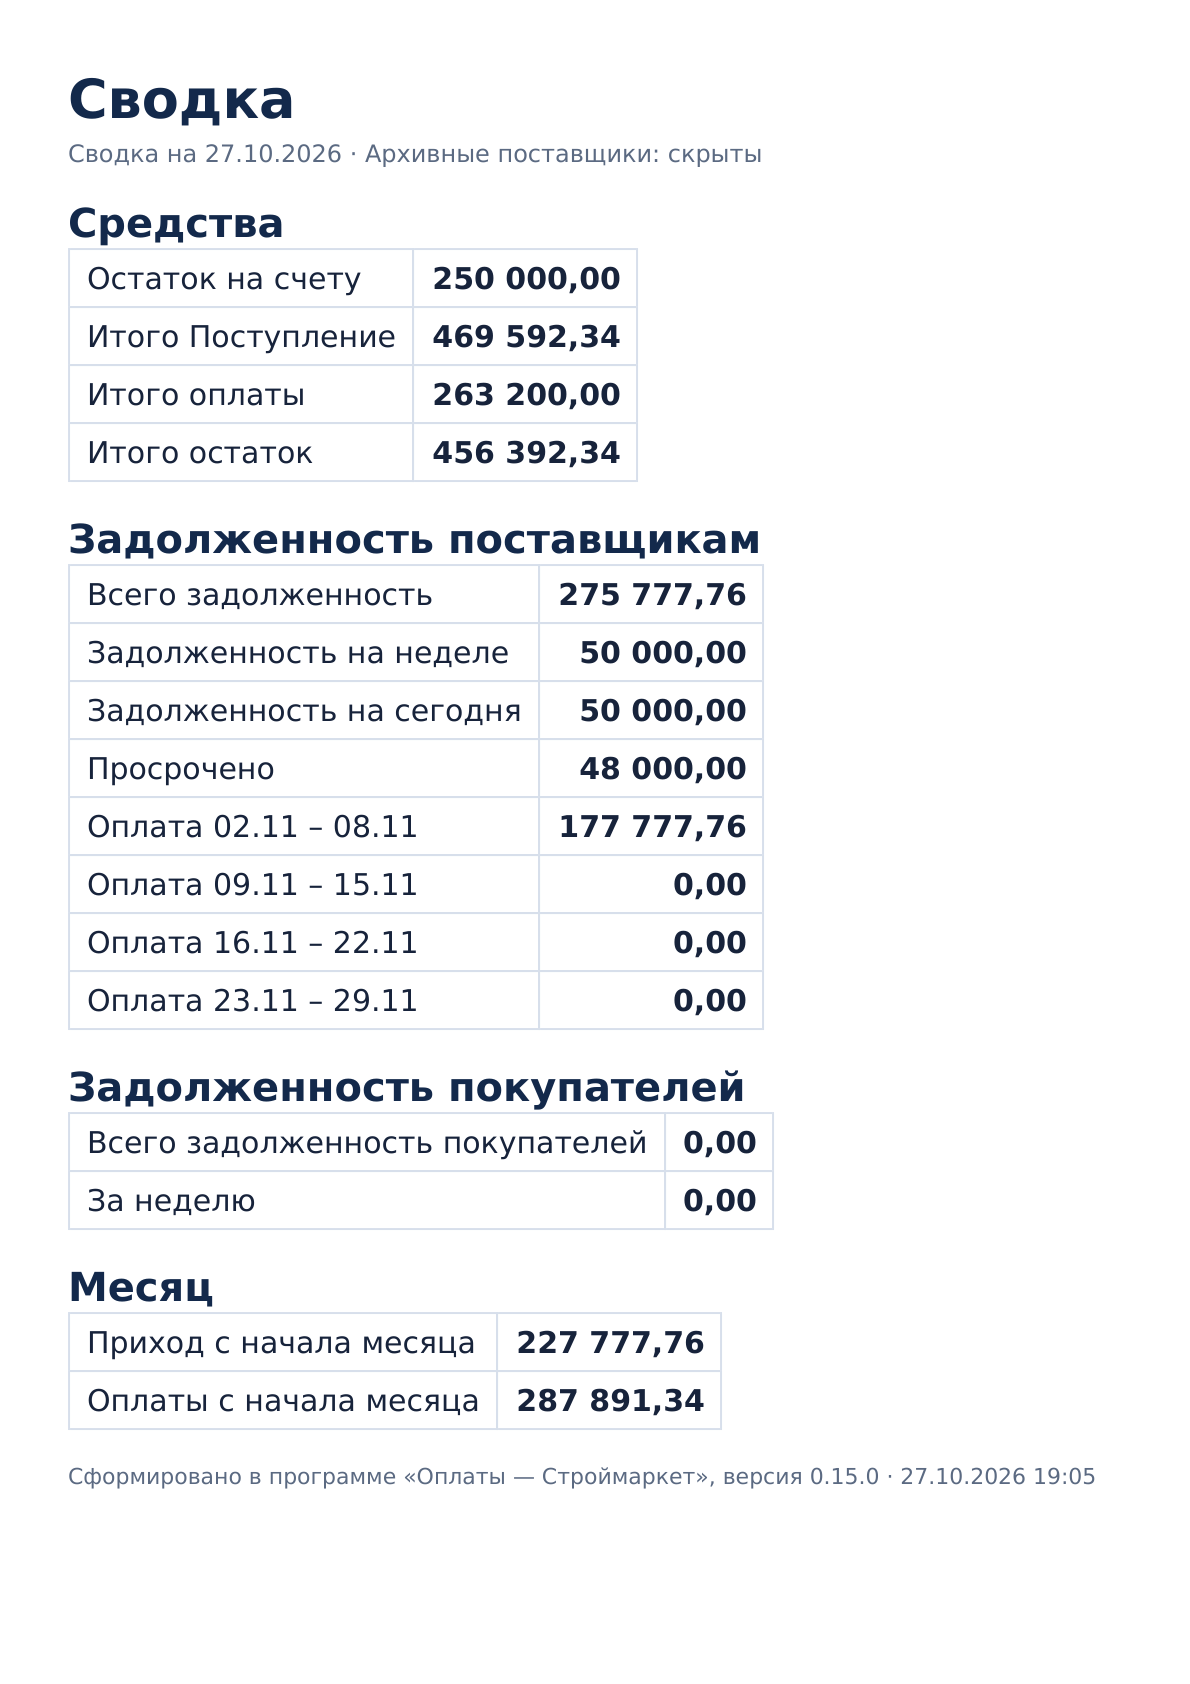
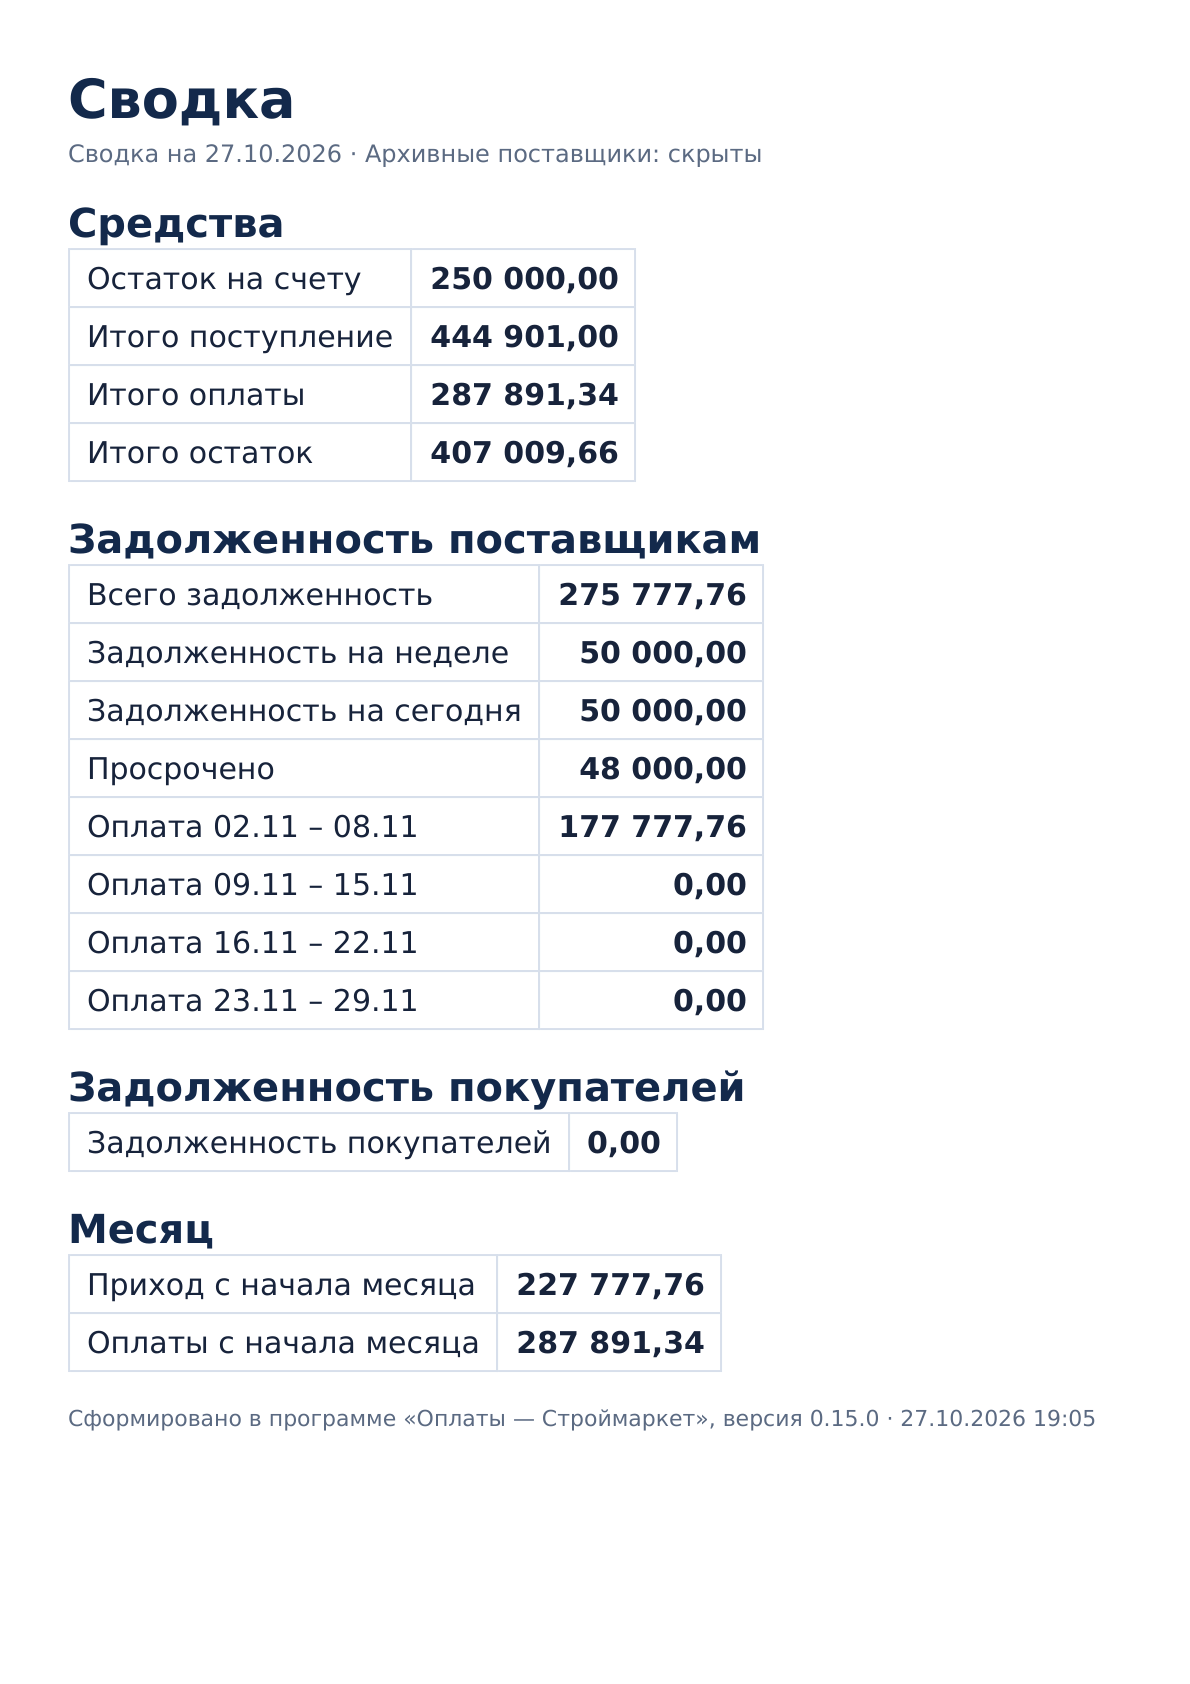
v0.15.0: закреплена таблица «Поступление», «Итого поступление» в Сводке

Changed region(s): [[0.0622, 0.6485, 0.684, 0.8955], [0.1555, 0.1544, 0.5597, 0.2779], [0.8084, 0.8337, 0.9017, 0.8955]]

diff --git a/src/oplata/views/summary_view.py b/src/oplata/views/summary_view.py
@@ -108,7 +108,7 @@ class SummaryView(QWidget):
             "СРЕДСТВА",
             [
                 ("funds", "Остаток на счету"),
-                ("income", "Итого Поступление"),
+                ("income", "Итого поступление"),
                 ("payments", "Итого оплаты"),
                 ("balance", "Итого остаток"),
             ],
@@ -135,8 +135,7 @@ class SummaryView(QWidget):
             content,
             "ЗАДОЛЖЕННОСТЬ ПОКУПАТЕЛЕЙ",
             [
-                ("cust_total", "Всего задолженность покупателей"),
-                ("cust_week", "За неделю"),
+                ("cust_total", "Задолженность покупателей"),
             ],
         )
         self._separator(content)
@@ -228,6 +227,7 @@ class SummaryView(QWidget):
             data, on_date, PLAN_WEEKS, include_archived
         )
         customers = calc.customer_debt_totals(data, on_date, include_archived)
+        _ = customers.week  # «за неделю» в блоке не показывается
         month = calc.month_totals(data, on_date)
 
         self._set_value("funds", funds.funds)
@@ -246,7 +246,6 @@ class SummaryView(QWidget):
                 f" – {week.sunday.strftime('%d.%m')}"
             )
         self._set_value("cust_total", customers.total)
-        self._set_value("cust_week", customers.week)
         self._set_value("month_income", month.income)
         self._set_value("month_payments", month.payments)
 
@@ -258,7 +257,7 @@ class SummaryView(QWidget):
                 title="Средства",
                 lines=[
                     SummaryLine("Остаток на счету", fmt_money_plain(funds.funds)),
-                    SummaryLine("Итого Поступление", fmt_money_plain(funds.income)),
+                    SummaryLine("Итого поступление", fmt_money_plain(funds.income)),
                     SummaryLine("Итого оплаты", fmt_money_plain(funds.payments)),
                     SummaryLine("Итого остаток", fmt_money_plain(funds.balance)),
                 ],
@@ -290,10 +289,9 @@ class SummaryView(QWidget):
                 title="Задолженность покупателей",
                 lines=[
                     SummaryLine(
-                        "Всего задолженность покупателей",
+                        "Задолженность покупателей",
                         fmt_money_plain(customers.total),
                     ),
-                    SummaryLine("За неделю", fmt_money_plain(customers.week)),
                 ],
             ),
             SummarySection(

diff --git a/src/oplata/views/receipts_view.py b/src/oplata/views/receipts_view.py
@@ -526,7 +526,8 @@ class MoneyBlock(QFrame):
         self.next_btn.clicked.connect(lambda: self.shift_date(1))
         top.addWidget(self.next_btn)
 
-        if on_add_row is not None or on_remove_row is not None:
+        has_row_buttons = on_add_row is not None or on_remove_row is not None
+        if has_row_buttons:
             top.addStretch(1)
         if on_add_row is not None:
             self.add_btn = arrow_button("+", "Добавить свою строку")
@@ -536,6 +537,11 @@ class MoneyBlock(QFrame):
             self.remove_btn = arrow_button("−", "Убрать выделенную строку")
             self.remove_btn.clicked.connect(self._remove_selected)
             top.addWidget(self.remove_btn)
+        if not has_row_buttons:
+            # На плашке «поступление» кнопок «+»/«−» нет, поэтому
+            # заголовок остаётся прежним: стрелки справа от «Сегодня» и
+            # растяжка до правого края (как было раньше).
+            top.addStretch(1)
         root.addLayout(top)
 
         # --- таблица: строка + сумма + нарастающие итоги ---
@@ -638,9 +644,21 @@ class MoneyBlock(QFrame):
             )
             self.table.setStyleSheet(WIDE_SCROLLBAR)
         else:
-            self.table.setMaximumHeight(
-                header_height + visible * row_height + 2
+            # Блок «Поступление» закреплён (v0.15.0): высота таблицы
+            # фиксированная по числу строк, чтобы при обновлении и
+            # прокрутке содержимое не «болталось» и не сдвигало блок
+            # «Оплата» под ним.
+            fixed_height = header_height + visible * row_height + 2
+            # Высоты строк не пересчитываются по переносу слов: иначе
+            # таблица дёргается при каждом пересчёте раскладки.
+            self.table.verticalHeader().setSectionResizeMode(
+                QHeaderView.ResizeMode.Fixed
             )
+            self.table.setSizePolicy(
+                QSizePolicy.Policy.Expanding, QSizePolicy.Policy.Fixed
+            )
+            self.table.setMinimumHeight(fixed_height)
+            self.table.setMaximumHeight(fixed_height)
             # Скроллинга в блоке «Поступление» нет (v0.14.0): строк там
             # немного, а полоса прокрутки только мешала.
             self.table.setVerticalScrollBarPolicy(

diff --git a/src/oplata/calc.py b/src/oplata/calc.py
@@ -220,32 +220,22 @@ def funds_totals(data: AppData) -> FundsTotals:
     except InvalidOperation:
         funds = ZERO
 
-    # v0.15.0: «Реализация» покупателей в ИТОГ ПОСТУПЛЕНИЕ не входит —
-    # это отгрузка, а не деньги. Деньги, поступившие от покупателя
-    # («Оплата» покупателя), наоборот, поступление.
-    supplier_ids = {s.id for s in data.suppliers}
-    customer_ids = {c.id for c in data.customers}
-
+    # v0.15.0: по просьбе пользователя «Реализация» покупателей в
+    # ИТОГ ПОСТУПЛЕНИЕ не входит. Больше в расчёте ничего не менялось.
     income = ZERO
     for receipt in data.cash_receipts:
         income += cash_receipt_amount(receipt)
     for payment in data.other_payments:
         if payment.direction == INCOMING:
             income += other_payment_amount(payment)
-    for op in data.operations:
-        if op.kind == KIND_PAYMENT and op.counterparty_id in customer_ids:
-            income += operation_amount(op)
 
     payments = ZERO
     for payment in data.other_payments:
         if payment.direction != INCOMING:
             payments += other_payment_amount(payment)
     for op in data.operations:
-        if op.kind == KIND_PAYMENT and (
-            not supplier_ids or op.counterparty_id in supplier_ids
-        ):
+        if op.kind == KIND_PAYMENT:
             payments += operation_amount(op)
-    _ = KIND_SALE  # реализация в расчёте средств не участвует
 
     return FundsTotals(
         funds=funds,

diff --git a/tests/test_ui_smoke.py b/tests/test_ui_smoke.py
@@ -1405,10 +1405,9 @@ def test_summary_panel_shows_three_blocks_line_by_line(qt_app, store):
 
     # Все значения построчно: подписи и числа лежат в сетке блоками.
     assert view.panel.isVisible()
-    assert len(view._values) == len(view._captions) == 4 + 8 + 2 + 2
+    assert len(view._values) == len(view._captions) == 4 + 8 + 1 + 2
     # Блок «Задолженность покупателей» пока пуст (покупателей нет).
     assert view.value_text("cust_total") == "0,00"
-    assert view.value_text("cust_week") == "0,00"
     window.close()
 
 
@@ -1476,13 +1475,12 @@ def test_summary_customer_debt_block_counts_sales_minus_payments(qt_app, store):
     view.date_edit.setDate(QDate(2026, 10, 27))
     view.refresh()
 
-    assert view.caption_text("cust_total") == "Всего задолженность покупателей"
+    assert view.caption_text("cust_total") == "Задолженность покупателей"
     assert view.value_text("cust_total") == "3 500,00"
-    assert view.value_text("cust_week") == "3 500,00"
 
-    # «Итого Поступление» не включает реализацию покупателей (v0.15.0),
-    # но деньги, поступившие от покупателя, — включает.
-    assert view.value_text("income") == "1 500,00"
+    # «Итого поступление» не включает реализацию покупателей (v0.15.0).
+    assert view.value_text("income") == "0,00"
+    assert view.value_text("payments") == "1 500,00"
     window.close()
 
 

diff --git a/docs/DECISIONS.md b/docs/DECISIONS.md
@@ -16,7 +16,7 @@
   шрифты «Поступление», «Оплата» и «Сводка» — одинаковые и крупнее,
   чем подзаголовок «СРЕДСТВА»; в Сводку добавить **задолженность
   покупателей** и **четвёртую неделю** в «оплата понедельно»; в
-  «Итого Поступление» **не включать реализацию покупателей**; у
+  «Итого поступление» **не включать реализацию покупателей**; у
   покупателей **убрать столбец «просрочен»**, а «за неделю»
   переименовать в **«Всего»**; задолженность покупателя = **Реализация
   − Оплата**; у поставщиков в «за неделю» — **итог за показанную
@@ -41,10 +41,9 @@
     считает **Реализация − Оплата** (+ долг переноса на 1 января для
     общей суммы); «оплата понедельно» — четыре недели
     (``PLAN_WEEKS = 4``, ``calc.weekly_payment_plan(weeks=4)``).
-  - *«Итого Поступление»* = наличные + карты + прочие поступления +
-    деньги, поступившие от покупателей («Оплата» покупателя).
-    **«Реализация» не входит** — это отгрузка, а не деньги.
-    «Итого оплаты» = оплаты поставщикам + прочие виды оплат.
+  - *«Итого поступление»* = наличные + карты + прочие поступления, как
+    и раньше, но **без «Реализации» покупателей** — это отгрузка, а не
+    деньги. «Итого оплаты» не менялось.
   - *Недельная таблица поставщиков:* ``_debt_columns`` считает
     просрочку как сумму долгов со сроком ``<= limit``, где
     ``limit = min(сегодня, воскресенье показанной недели)`` для текущей

diff --git a/docs/SPEC.md b/docs/SPEC.md
@@ -46,12 +46,12 @@
 
   * **«Средства»**: `Остаток на счету` — «Текущие средства на счету» из
     плашки «Данные» вкладки «Конфигурация» (перенос на 1 января);
-    `Итого Поступление` — наличные + карты + прочие поступления +
+    `Итого поступление` — наличные + карты + прочие поступления +
     прочие виды оплат и деньги, поступившие от покупателей; `Итого
     оплаты` — оплаты поставщикам + прочие виды оплат; `Итого остаток` =
     Остаток + Поступление − Оплаты. Первые три считает
     `calc.funds_totals()` за всё время. **Реализация покупателей в
-    «Итого Поступление» не входит** (v0.15.0) — это отгрузка, а не
+    «Итого поступление» не входит** (v0.15.0) — это отгрузка, а не
     деньги.
   * **«Задолженность поставщикам»**: `Всего задолженность` — весь
     график долга (суммы поставок по срокам + долги переноса на 1 января

diff --git a/CHANGELOG.md b/CHANGELOG.md
@@ -31,6 +31,12 @@
   **переносится** в «на сегодня».
 - **Таблица покупателей**: столбец «просрочено» **удалён**; итоговая
   колонка «ЗАДОЛЖ.» с подзаголовком **«Всего»** = Реализация − Оплата.
+- В «Сводке» строка блока «Средства» называется **«Итого поступление»**
+  (со строчной буквы).
+- **Таблица плашки «Поступление» закреплена**: высота фиксирована по
+  числу строк, высоты строк не пересчитываются — при обновлении,
+  смене даты и изменении размера окна таблица не «болтается» и не
+  сдвигает блок «Оплата».
 - Тесты: **61 проверка** (новая логика долгов, блок покупателей,
   мгновенный пересчёт Сводки, раскладка и жирность стрелок).
 

diff --git a/README.md b/README.md
@@ -20,7 +20,7 @@
 > «Покупатели», «Конфигурация»; вкладок «Сводка» и «Операции» нет — «Сводка»
 > стоит **панелью справа** на первой вкладке — это плашка из трёх
 > блоков, все значения построчно: «Средства» (остаток на счету, итого
-> Поступление, итого оплаты, итого остаток), «Задолженность
+> поступление, итого оплаты, итого остаток), «Задолженность
 > поставщикам» (всего, на неделе, на сегодня, просрочено и оплата
 > понедельно на четыре недели вперёд), «Задолженность покупателей»
 > (Реализация − Оплата) и «Месяц» (приход и оплаты с начала месяца).
